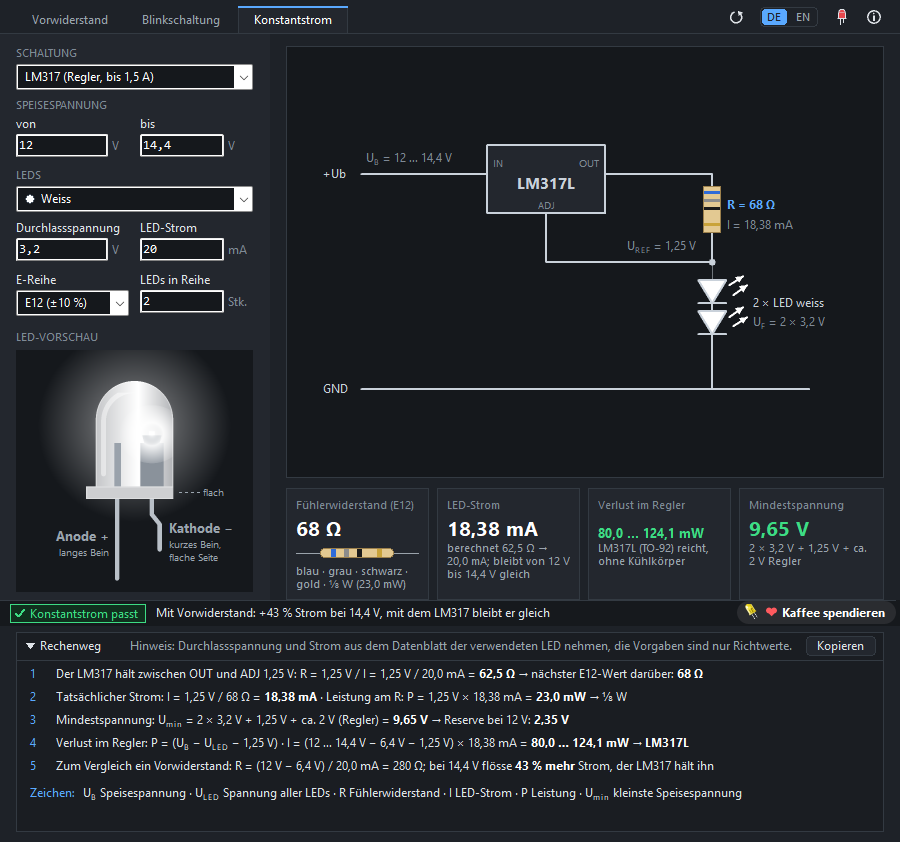
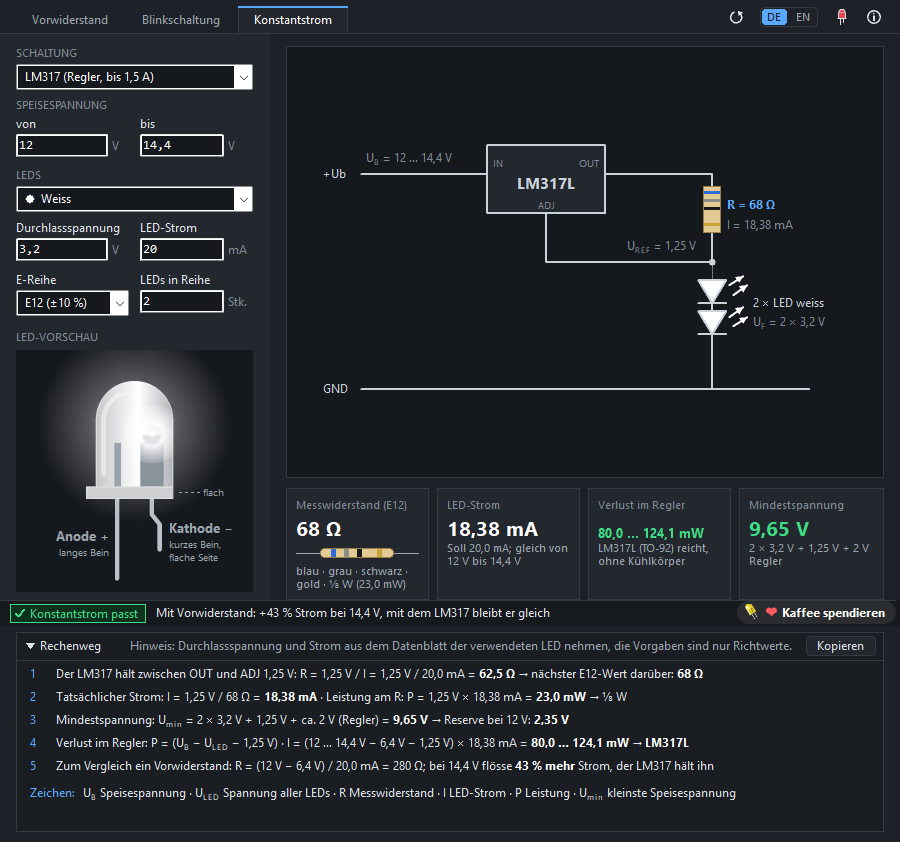
Projektseite auf 2.5.2 (#24)
Neue Screenshots und Link-Vorschaubilder aus 2.5.2, Texte, README und LIESMICH auf 2.5.2.

diff --git a/site/de/index.html b/site/de/index.html
@@ -44,7 +44,7 @@
   "description": "Berechnet den Vorwiderstand für eine oder mehrere LEDs in Reihe: nächsthöherer Normwert aus E12, E24 oder E96, Farbringe, tatsächlicher Strom, Leistung und empfohlene Bauform, mit Rechenweg Schritt für Schritt. Rechnet auch LED-Blinkschaltungen mit NE555 oder Multivibrator mit zwei Transistoren sowie Konstantstromquellen mit LM317 oder zwei Transistoren.",
   "url": "https://elospeed.github.io/LedPreResistor/de/",
   "downloadUrl": "https://github.com/Elospeed/LedPreResistor/releases/latest",
-  "softwareVersion": "2.5",
+  "softwareVersion": "2.5.2",
   "inLanguage": "de",
   "license": "https://opensource.org/licenses/MIT",
   "isAccessibleForFree": true,
@@ -80,8 +80,8 @@
     <h1>Der richtige Widerstand<br>für <span class="grad">jede LED</span></h1>
     <p class="lead">Speisespannung eingeben, LED-Farbe und Strom wählen. LedPreResistor sucht den nächsten Normwiderstand, zeigt seine Farbringe, den tatsächlichen Strom und die Leistung und sagt dir, welche Bauform du brauchst. Jeder Rechenschritt steht mit deinen eigenen Zahlen da. Ein kleines Programm für Windows und Linux, kostenlos und Open Source.</p>
     <div class="cta">
-      <a class="btn primary" href="https://github.com/Elospeed/LedPreResistor/releases/download/v2.5/LedPreResistor-2.5.zip">⬇ Download für Windows</a>
-      <a class="btn primary" href="https://github.com/Elospeed/LedPreResistor/releases/download/v2.5/LedPreResistor-2.5-linux-x86_64.tar.gz">⬇ Download für Linux</a>
+      <a class="btn primary" href="https://github.com/Elospeed/LedPreResistor/releases/download/v2.5.2/LedPreResistor-2.5.2.zip">⬇ Download für Windows</a>
+      <a class="btn primary" href="https://github.com/Elospeed/LedPreResistor/releases/download/v2.5.2/LedPreResistor-2.5.2-linux-x86_64.tar.gz">⬇ Download für Linux</a>
       <a class="btn" href="https://github.com/Elospeed/LedPreResistor">Quelltext auf GitHub</a>
     </div>
     <ul class="facts">
@@ -94,8 +94,8 @@
       <li>Konstantstrom: LM317 und zwei Transistoren</li>
     </ul>
     <figure class="shot hero-shot">
-      <div class="bar"><img src="../img/icon-32.png" alt=""><span>LedPreResistor · Elospeed 2.5</span><i class="min"></i><i class="max"></i><i class="cls"></i></div>
-      <img src="../img/ledpreresistor-main.png" width="900" height="842" alt="Hauptfenster von LedPreResistor: 12 V, drei weisse LEDs in Reihe, 20 mA, zwei Stränge parallel. Schaltplan mit 120-Ohm-Widerstand, drei LED-Symbolen und gestricheltem zweitem Strang mit mal 2, darunter der Rechenweg">
+      <div class="bar"><img src="../img/icon-32.png" alt=""><span>LedPreResistor · Elospeed 2.5.2</span><i class="min"></i><i class="max"></i><i class="cls"></i></div>
+      <img src="../img/ledpreresistor-main.png" width="900" height="842" alt="Hauptfenster von LedPreResistor: 12 V, drei weisse LEDs in Reihe, 20 mA, zwei Stränge parallel. Schaltplan mit beiden Strängen, je 120-Ohm-Widerstand und drei LEDs, 20 mA je Strang und 40 mA gesamt, darunter der Rechenweg">
     </figure>
   </div>
 </section>
@@ -109,7 +109,7 @@
       <div class="card"><h3><span class="dot" style="background:var(--yellow)"></span>Leistung und Bauform</h3><p>Tatsächlicher Strom, Leistung im Widerstand und in den LEDs. LedPreResistor empfiehlt ⅛, ¼, ½ oder 1 W und warnt ab 50 % Auslastung, mit geschätzter Erwärmung des Widerstands.</p></div>
       <div class="card"><h3><span class="dot" style="background:var(--green)"></span>Rechenweg Schritt für Schritt</h3><p>Ein aufklappbarer Bereich zeigt die fünf Schritte mit deinen Werten: Spannung am Widerstand, idealer Wert, Normwert, tatsächlicher Strom, Leistung und Erwärmung. Zum Lernen und zum Nachprüfen.</p></div>
       <div class="card"><h3><span class="dot" style="background:var(--blue)"></span>LED-Vorschau</h3><p>Eine realistische 5-mm-LED in der gewählten Farbe, Anode, Kathode und flache Seite beschriftet, damit sie richtig herum eingelötet wird. Im Reiter «Blinkschaltung» blinkt sie mit den berechneten Zeiten.</p></div>
-      <div class="card"><h3><span class="dot" style="background:var(--white)"></span>Schaltplan mit allen Werten</h3><p>Spannungsquelle, Widerstand und LED in einem übersichtlichen Schaltplan, mit Spannung, Strom und Widerstand an jedem Bauteil. Seit Version 2.5 zeichnet er mehrere LEDs in Reihe, und ein gestrichelter zweiter Zweig mit «× k» zeigt gleiche Stränge parallel, jeder mit eigenem Vorwiderstand.</p></div>
+      <div class="card"><h3><span class="dot" style="background:var(--white)"></span>Schaltplan mit allen Werten</h3><p>Spannungsquelle, Widerstand und LED in einem übersichtlichen Schaltplan, mit Spannung, Strom und Widerstand an jedem Bauteil. Mehrere LEDs in Reihe und Stränge parallel werden vollständig gezeichnet, jeder Strang mit eigenem Vorwiderstand, Strom je Strang und gesamt beschriftet. Gepolte Bauteile sind automatisch auf ihre Richtung geprüft.</p></div>
       <div class="card"><h3><span class="dot" style="background:var(--accent)"></span>LED-Info eingebaut</h3><p>Mit F1 öffnet sich «Die Leuchtdiode»: wie eine LED funktioniert, Farben und Durchlassspannungen, Polarität, Vorwiderstand, Konstantstrom und Praxistipps. Im Browser, auch offline.</p></div>
     </div>
   </div>
@@ -121,7 +121,7 @@
       <h2>Warnt, bevor es heiss wird</h2>
       <p class="sub" style="margin-bottom:0">Ein Widerstand an der Leistungsgrenze wird sehr heiss und altert schnell. LedPreResistor passt darauf auf.</p>
       <ul class="ticks">
-        <li><strong>Grün, gelb, rot</strong> in der Statuszeile: Auslastung eines normalen ¼-W-Widerstands und seine Erwärmung als «ca. +X K über Umgebung»</li>
+        <li><strong>Grün, gelb, rot</strong> in der Statuszeile: Auslastung der empfohlenen Bauform und ihre Erwärmung als «ca. +X K über Umgebung», dazu wie stark ein normaler ¼-W-Widerstand ausgelastet wäre</li>
         <li><strong>Ab 50 % Auslastung</strong> wird die nächstgrössere Bauform empfohlen, wie es erfahrene Bastler machen</li>
         <li><strong>Zu viel Leistung für einen Widerstand?</strong> Das Programm sagt es und schlägt eine Konstantstromquelle vor</li>
         <li><strong>Resultat kopieren</strong> mit dem Knopf «Kopieren» oder Strg+Umschalt+C: Resultat, Rechenweg und Zeichen-Erklärung als einfacher Text, für Notizen oder einen Forumsbeitrag</li>
@@ -130,8 +130,8 @@
       </ul>
     </div>
     <figure class="shot">
-      <div class="bar"><img src="../img/icon-32.png" alt=""><span>LedPreResistor · Elospeed 2.5</span><i class="min"></i><i class="max"></i><i class="cls"></i></div>
-      <img src="../img/ledpreresistor-warning.png" width="900" height="842" alt="LedPreResistor mit 9 V, roter LED, 25 mA: 330 Ohm, 148,5 mW, ein Viertelwatt-Widerstand wäre zu 59 Prozent ausgelastet, die Statuszeile warnt gelb und empfiehlt ein halbes Watt" loading="lazy">
+      <div class="bar"><img src="../img/icon-32.png" alt=""><span>LedPreResistor · Elospeed 2.5.2</span><i class="min"></i><i class="max"></i><i class="cls"></i></div>
+      <img src="../img/ledpreresistor-warning.png" width="900" height="842" alt="LedPreResistor mit 9 V, roter LED, 25 mA: 330 Ohm, 148,5 mW, empfohlen ein halbes Watt, zu 30 Prozent ausgelastet; ein Viertelwatt-Widerstand wäre zu 59 Prozent ausgelastet" loading="lazy">
     </figure>
   </div>
 </section>
@@ -151,8 +151,8 @@
       </ul>
     </div>
     <figure class="shot">
-      <div class="bar"><img src="../img/icon-32.png" alt=""><span>LedPreResistor · Elospeed 2.5</span><i class="min"></i><i class="max"></i><i class="cls"></i></div>
-      <img src="../img/ledpreresistor-blink.png" width="900" height="842" alt="LedPreResistor Reiter Blinkschaltung: NE555 astabil mit R1 1 Kiloohm, R2 68 Kiloohm und 10 Mikrofarad an 12 V, 1,05 Hz, Tastgrad 50,4 Prozent, Vorwiderstand 390 Ohm für eine weisse LED, Schaltplan und Rechenweg" loading="lazy">
+      <div class="bar"><img src="../img/icon-32.png" alt=""><span>LedPreResistor · Elospeed 2.5.2</span><i class="min"></i><i class="max"></i><i class="cls"></i></div>
+      <img src="../img/ledpreresistor-blink.png" width="900" height="842" alt="LedPreResistor Reiter Blinkschaltung: NE555 astabil mit R1 1 Kiloohm, R2 68 Kiloohm und Elko 10 Mikrofarad / 16 V an 12 V, 1,05 Hz, Tastgrad 50,4 Prozent, Vorwiderstand 390 Ohm für eine weisse LED, Schaltplan und Rechenweg" loading="lazy">
     </figure>
   </div>
 </section>
@@ -163,16 +163,16 @@
       <h2>Konstantstrom für die LEDs</h2>
       <p class="sub" style="margin-bottom:0">Seit Version 2.4: Der Reiter «Konstantstrom» hält den LED-Strom fest, auch wenn die Speisespannung schwankt, zum Beispiel 12 bis 14,4 V im Auto.</p>
       <ul class="ticks">
-        <li><strong>LM317 als Stromquelle:</strong> Fühlerwiderstand R = 1,25 V / I aus der E-Reihe, seine Leistung, die nötige Mindestspannung und der Verlust im Regler; Vorschlag LM317L oder LM317, bei Bedarf mit Hinweis auf einen Kühlkörper</li>
-        <li><strong>Zwei Transistoren:</strong> Fühlerwiderstand R_S = 0,6 V / I und Basiswiderstand R_B; T1 wird nach Strom und Leistung vorgeschlagen (BC547, BC337 oder BD139)</li>
+        <li><strong>LM317 als Stromquelle:</strong> Messwiderstand R = 1,25 V / I aus der E-Reihe, seine Leistung, die nötige Mindestspannung und der Verlust im Regler; Vorschlag LM317L oder LM317, bei Bedarf mit Hinweis auf einen Kühlkörper</li>
+        <li><strong>Zwei Transistoren:</strong> Messwiderstand R_S = 0,6 V / I und Basiswiderstand R_B; T1 wird nach Strom und Leistung vorgeschlagen (BC547, BC337 oder BD139)</li>
         <li><strong>Speisespannung als Bereich «von … bis»:</strong> zeigt, wie wenig sich der Strom ändert, im Vergleich zu einem einfachen Vorwiderstand</li>
         <li>Schaltplan mit allen Werten, Rechenweg, Zeichen-Erklärung und Warnungen wie in den anderen Reitern</li>
         <li>Die LED-Info erklärt Konstantstrom, Wärme und Kühlkörper in einem eigenen Kapitel</li>
       </ul>
     </div>
     <figure class="shot">
-      <div class="bar"><img src="../img/icon-32.png" alt=""><span>LedPreResistor · Elospeed 2.5</span><i class="min"></i><i class="max"></i><i class="cls"></i></div>
-      <img src="../img/ledpreresistor-ksq.png" width="900" height="842" alt="LedPreResistor Reiter Konstantstrom: LM317 als Stromquelle für zwei weisse LEDs mit 20 mA, Speisespannung 12 bis 14,4 V, Fühlerwiderstand 68 Ohm, 18,38 mA, Schaltplan und Rechenweg" loading="lazy">
+      <div class="bar"><img src="../img/icon-32.png" alt=""><span>LedPreResistor · Elospeed 2.5.2</span><i class="min"></i><i class="max"></i><i class="cls"></i></div>
+      <img src="../img/ledpreresistor-ksq.png" width="900" height="842" alt="LedPreResistor Reiter Konstantstrom: LM317 als Stromquelle für zwei weisse LEDs mit 20 mA, Speisespannung 12 bis 14,4 V, Messwiderstand 68 Ohm, 18,38 mA, Schaltplan und Rechenweg" loading="lazy">
     </figure>
   </div>
 </section>
@@ -248,7 +248,7 @@
     </details>
     <details>
       <summary>Gibt es eine Linux-Version?</summary>
-      <p>Ja, seit Version 2.2: eine eigene Linux-Version (x86_64, GTK2), ohne Wine. <code>LedPreResistor-2.5-linux-x86_64.tar.gz</code> entpacken und <code>./LedPreResistor</code> starten. <code>./install.sh</code> nimmt das Programm ohne root ins Startmenü auf. Es braucht GTK2, das auf den meisten Systemen schon da ist (sonst <code>sudo apt install libgtk2.0-0</code>, <code>sudo dnf install gtk2</code> oder <code>sudo pacman -S gtk2</code>). Die Einstellungen liegen in <code>~/.config/LedPreResistor/</code>.</p>
+      <p>Ja, seit Version 2.2: eine eigene Linux-Version (x86_64, GTK2), ohne Wine. <code>LedPreResistor-2.5.2-linux-x86_64.tar.gz</code> entpacken und <code>./LedPreResistor</code> starten. <code>./install.sh</code> nimmt das Programm ohne root ins Startmenü auf. Es braucht GTK2, das auf den meisten Systemen schon da ist (sonst <code>sudo apt install libgtk2.0-0</code>, <code>sudo dnf install gtk2</code> oder <code>sudo pacman -S gtk2</code>). Die Einstellungen liegen in <code>~/.config/LedPreResistor/</code>.</p>
     </details>
     <details>
       <summary>Woher kommt LedPreResistor?</summary>
@@ -266,8 +266,8 @@
     <h2>Bereit für das nächste LED-Projekt?</h2>
     <p class="sub" style="margin:0 auto 26px">Für Windows oder Linux herunterladen, entpacken und losrechnen.</p>
     <div class="cta">
-      <a class="btn primary" href="https://github.com/Elospeed/LedPreResistor/releases/download/v2.5/LedPreResistor-2.5.zip">⬇ Windows (ZIP)</a>
-      <a class="btn primary" href="https://github.com/Elospeed/LedPreResistor/releases/download/v2.5/LedPreResistor-2.5-linux-x86_64.tar.gz">⬇ Linux (tar.gz)</a>
+      <a class="btn primary" href="https://github.com/Elospeed/LedPreResistor/releases/download/v2.5.2/LedPreResistor-2.5.2.zip">⬇ Windows (ZIP)</a>
+      <a class="btn primary" href="https://github.com/Elospeed/LedPreResistor/releases/download/v2.5.2/LedPreResistor-2.5.2-linux-x86_64.tar.gz">⬇ Linux (tar.gz)</a>
       <a class="btn" href="https://github.com/Elospeed/LedPreResistor/blob/main/LIESMICH.md">Anleitung lesen</a>
     </div>
     <p class="support">LedPreResistor ist ein Hobbyprojekt eines Elektronik-Bastlers aus der Schweiz und bleibt kostenlos. Wenn es dir hilft, kannst du mir auf <a href="https://ko-fi.com/elospeed" data-goatcounter-click="ko-fi-support-de">Ko-fi einen Kaffee spendieren</a> ☕ oder einfach <a href="https://github.com/Elospeed/LedPreResistor" data-goatcounter-click="github-star-de">auf GitHub einen Stern geben</a>. Beides ganz freiwillig.</p>

diff --git a/site/index.html b/site/index.html
@@ -44,7 +44,7 @@
   "description": "Calculates the series resistor for one or more LEDs in series: next standard value from E12, E24 or E96, colour bands, real current, power and recommended resistor size, with a step-by-step explanation. Also calculates LED blink circuits with the NE555 or a two-transistor multivibrator, and constant current sources with the LM317 or two transistors.",
   "url": "https://elospeed.github.io/LedPreResistor/",
   "downloadUrl": "https://github.com/Elospeed/LedPreResistor/releases/latest",
-  "softwareVersion": "2.5",
+  "softwareVersion": "2.5.2",
   "license": "https://opensource.org/licenses/MIT",
   "isAccessibleForFree": true,
   "offers": { "@type": "Offer", "price": "0", "priceCurrency": "USD" },
@@ -79,8 +79,8 @@
     <h1>The right resistor<br>for <span class="grad">every LED</span></h1>
     <p class="lead">Enter the supply voltage, pick the LED colour and the current. LedPreResistor finds the next standard resistor, shows its colour bands, the real current and the power, and tells you which resistor size to use. Every step of the calculation is shown with your own numbers. One small program for Windows and Linux, free and open source.</p>
     <div class="cta">
-      <a class="btn primary" href="https://github.com/Elospeed/LedPreResistor/releases/download/v2.5/LedPreResistor-2.5.zip">⬇ Download for Windows</a>
-      <a class="btn primary" href="https://github.com/Elospeed/LedPreResistor/releases/download/v2.5/LedPreResistor-2.5-linux-x86_64.tar.gz">⬇ Download for Linux</a>
+      <a class="btn primary" href="https://github.com/Elospeed/LedPreResistor/releases/download/v2.5.2/LedPreResistor-2.5.2.zip">⬇ Download for Windows</a>
+      <a class="btn primary" href="https://github.com/Elospeed/LedPreResistor/releases/download/v2.5.2/LedPreResistor-2.5.2-linux-x86_64.tar.gz">⬇ Download for Linux</a>
       <a class="btn" href="https://github.com/Elospeed/LedPreResistor">View source on GitHub</a>
     </div>
     <ul class="facts">
@@ -93,8 +93,8 @@
       <li>Constant current: LM317 and two transistors</li>
     </ul>
     <figure class="shot hero-shot">
-      <div class="bar"><img src="img/icon-32.png" alt=""><span>LedPreResistor · Elospeed 2.5</span><i class="min"></i><i class="max"></i><i class="cls"></i></div>
-      <img src="img/ledpreresistor-main-en.png" width="900" height="842" alt="LedPreResistor main window: 12 V supply, three white LEDs in series, 20 mA, two strings in parallel. Schematic with 120 ohm resistor, three LED symbols and a dashed second string marked times 2, and the calculation step by step">
+      <div class="bar"><img src="img/icon-32.png" alt=""><span>LedPreResistor · Elospeed 2.5.2</span><i class="min"></i><i class="max"></i><i class="cls"></i></div>
+      <img src="img/ledpreresistor-main-en.png" width="900" height="842" alt="LedPreResistor main window: 12 V supply, three white LEDs in series, 20 mA, two strings in parallel. Schematic with both strings, each with a 120 ohm resistor and three LEDs, 20 mA per string and 40 mA in total, and the calculation steps below">
     </figure>
     <figcaption>English and German interface: it follows your Windows language, and the DE/EN switch at the top right changes it at any time.</figcaption>
   </div>
@@ -109,7 +109,7 @@
       <div class="card"><h3><span class="dot" style="background:var(--yellow)"></span>Power and the right size</h3><p>Real current, power in the resistor and in the LEDs. LedPreResistor recommends ⅛, ¼, ½ or 1 W and warns from 50 % load, with an estimated temperature rise of the resistor.</p></div>
       <div class="card"><h3><span class="dot" style="background:var(--green)"></span>The calculation, step by step</h3><p>A fold-out panel walks through the five steps with your values: voltage across the resistor, ideal value, standard value, real current, power and warming. Ideal for learning and for checking.</p></div>
       <div class="card"><h3><span class="dot" style="background:var(--blue)"></span>LED preview</h3><p>A realistic 5 mm LED in the selected colour, with anode, cathode and the flat side labelled, so you solder it the right way round. In the blink circuit tab it blinks with the calculated times.</p></div>
-      <div class="card"><h3><span class="dot" style="background:var(--white)"></span>Schematic with all values</h3><p>Supply, resistor and LED in a clear circuit diagram, with voltage, current and resistance at every part. Since version 2.5 it draws several LEDs in series, and a dashed second branch with “× k” shows equal strings in parallel, each with its own resistor.</p></div>
+      <div class="card"><h3><span class="dot" style="background:var(--white)"></span>Schematic with all values</h3><p>Supply, resistor and LED in a clear circuit diagram, with voltage, current and resistance at every part. LEDs in series and parallel strings are drawn in full, each string with its own resistor, with current per string and in total. Polarised parts are checked automatically for their direction.</p></div>
       <div class="card"><h3><span class="dot" style="background:var(--accent)"></span>LED info built in</h3><p>Press F1 for “The LED”: how an LED works, colours and forward voltages, polarity, series resistor, constant current and practical tips. Opens in your browser, also offline.</p></div>
     </div>
   </div>
@@ -121,7 +121,7 @@
       <h2>Warns before it gets hot</h2>
       <p class="sub" style="margin-bottom:0">A resistor that runs at its limit gets very hot and ages quickly. LedPreResistor keeps an eye on it.</p>
       <ul class="ticks">
-        <li><strong>Green, yellow, red</strong> in the status bar: load of a standard ¼ W resistor and how much it warms up, shown as “about +X K above ambient”</li>
+        <li><strong>Green, yellow, red</strong> in the status bar: load of the recommended rating and how much it warms up, shown as “about +X K above ambient”, plus how much a standard ¼ W resistor would be loaded</li>
         <li><strong>From 50 % load</strong> the next bigger size is recommended, as experienced builders do</li>
         <li><strong>Too much power for a resistor?</strong> It says so and suggests a constant current source</li>
         <li><strong>Copy the result</strong> with the Copy button or Ctrl+Shift+C: result, calculation steps and symbol legend as plain text, for your notes or a forum post</li>
@@ -130,8 +130,8 @@
       </ul>
     </div>
     <figure class="shot">
-      <div class="bar"><img src="img/icon-32.png" alt=""><span>LedPreResistor · Elospeed 2.5</span><i class="min"></i><i class="max"></i><i class="cls"></i></div>
-      <img src="img/ledpreresistor-warning-en.png" width="900" height="842" alt="LedPreResistor with 9 V, red LED, 25 mA: 330 ohm, 148.5 mW, a quarter watt resistor would be 59 percent loaded, the status bar shows a yellow warning and recommends half a watt" loading="lazy">
+      <div class="bar"><img src="img/icon-32.png" alt=""><span>LedPreResistor · Elospeed 2.5.2</span><i class="min"></i><i class="max"></i><i class="cls"></i></div>
+      <img src="img/ledpreresistor-warning-en.png" width="900" height="842" alt="LedPreResistor with 9 V, red LED, 25 mA: 330 ohm, 148.5 mW, half a watt recommended and loaded to 30 percent; a quarter watt resistor would be loaded to 59 percent" loading="lazy">
     </figure>
   </div>
 </section>
@@ -151,8 +151,8 @@
       </ul>
     </div>
     <figure class="shot">
-      <div class="bar"><img src="img/icon-32.png" alt=""><span>LedPreResistor · Elospeed 2.5</span><i class="min"></i><i class="max"></i><i class="cls"></i></div>
-      <img src="img/ledpreresistor-blink-en.png" width="900" height="842" alt="LedPreResistor blink circuit tab: NE555 astable with R1 1 kilohm, R2 68 kilohm and 10 microfarad at 12 V, 1.05 Hz, 50.4 percent duty cycle, series resistor 390 ohm for a white LED, schematic and calculation steps" loading="lazy">
+      <div class="bar"><img src="img/icon-32.png" alt=""><span>LedPreResistor · Elospeed 2.5.2</span><i class="min"></i><i class="max"></i><i class="cls"></i></div>
+      <img src="img/ledpreresistor-blink-en.png" width="900" height="842" alt="LedPreResistor blink circuit tab: NE555 astable with R1 1 kilohm, R2 68 kilohm and a 10 microfarad / 16 V capacitor at 12 V, 1.05 Hz, 50.4 percent duty cycle, series resistor 390 ohm for a white LED, schematic and calculation steps" loading="lazy">
     </figure>
   </div>
 </section>
@@ -171,7 +171,7 @@
       </ul>
     </div>
     <figure class="shot">
-      <div class="bar"><img src="img/icon-32.png" alt=""><span>LedPreResistor · Elospeed 2.5</span><i class="min"></i><i class="max"></i><i class="cls"></i></div>
+      <div class="bar"><img src="img/icon-32.png" alt=""><span>LedPreResistor · Elospeed 2.5.2</span><i class="min"></i><i class="max"></i><i class="cls"></i></div>
       <img src="img/ledpreresistor-ksq-en.png" width="900" height="842" alt="LedPreResistor constant current tab: LM317 as current source for two white LEDs at 20 mA, supply 12 to 14.4 V, sense resistor 68 ohm, 18.38 mA, schematic and calculation steps" loading="lazy">
     </figure>
   </div>
@@ -248,7 +248,7 @@
     </details>
     <details>
       <summary>Is there a Linux version?</summary>
-      <p>Yes, since version 2.2: a native Linux build (x86_64, GTK2), no Wine needed. Unpack <code>LedPreResistor-2.5-linux-x86_64.tar.gz</code> and run <code>./LedPreResistor</code>. <code>./install.sh</code> adds it to your application menu without root. It needs GTK2, which most desktops already have (otherwise <code>sudo apt install libgtk2.0-0</code>, <code>sudo dnf install gtk2</code> or <code>sudo pacman -S gtk2</code>). Settings are stored in <code>~/.config/LedPreResistor/</code>.</p>
+      <p>Yes, since version 2.2: a native Linux build (x86_64, GTK2), no Wine needed. Unpack <code>LedPreResistor-2.5.2-linux-x86_64.tar.gz</code> and run <code>./LedPreResistor</code>. <code>./install.sh</code> adds it to your application menu without root. It needs GTK2, which most desktops already have (otherwise <code>sudo apt install libgtk2.0-0</code>, <code>sudo dnf install gtk2</code> or <code>sudo pacman -S gtk2</code>). Settings are stored in <code>~/.config/LedPreResistor/</code>.</p>
     </details>
     <details>
       <summary>Where does LedPreResistor come from?</summary>
@@ -266,8 +266,8 @@
     <h2>Ready for your next LED project?</h2>
     <p class="sub" style="margin:0 auto 26px">Download it for Windows or Linux, unpack it and start calculating.</p>
     <div class="cta">
-      <a class="btn primary" href="https://github.com/Elospeed/LedPreResistor/releases/download/v2.5/LedPreResistor-2.5.zip">⬇ Windows (ZIP)</a>
-      <a class="btn primary" href="https://github.com/Elospeed/LedPreResistor/releases/download/v2.5/LedPreResistor-2.5-linux-x86_64.tar.gz">⬇ Linux (tar.gz)</a>
+      <a class="btn primary" href="https://github.com/Elospeed/LedPreResistor/releases/download/v2.5.2/LedPreResistor-2.5.2.zip">⬇ Windows (ZIP)</a>
+      <a class="btn primary" href="https://github.com/Elospeed/LedPreResistor/releases/download/v2.5.2/LedPreResistor-2.5.2-linux-x86_64.tar.gz">⬇ Linux (tar.gz)</a>
       <a class="btn" href="https://github.com/Elospeed/LedPreResistor#readme">Read the guide</a>
     </div>
     <p class="support">LedPreResistor is a hobby project by an electronics hobbyist from Switzerland and free for good. If it helps you, you can <a href="https://ko-fi.com/elospeed" data-goatcounter-click="ko-fi-support-en">buy me a coffee on Ko-fi</a> ☕ or simply <a href="https://github.com/Elospeed/LedPreResistor" data-goatcounter-click="github-star-en">give it a star on GitHub</a>. Both are entirely optional.</p>

diff --git a/LIESMICH.md b/LIESMICH.md
@@ -1,4 +1,4 @@
-# Elospeed LedPreResistor 2.5
+# Elospeed LedPreResistor 2.5.2
 
 **von Elospeed**
 
@@ -6,7 +6,7 @@
 
 **Webseite:** [elospeed.github.io/LedPreResistor/de](https://elospeed.github.io/LedPreResistor/de/) · **Download:** [neuestes Release](https://github.com/Elospeed/LedPreResistor/releases/latest)
 
-![Hauptfenster von LedPreResistor: 12 V, drei weisse LEDs in Reihe, zwei Stränge parallel, 20 mA → 120 Ω](site/img/ledpreresistor-main.png)
+![Hauptfenster von LedPreResistor: 12 V, drei weisse LEDs in Reihe, zwei Stränge parallel, jeder mit eigenem 120-Ω-Widerstand](site/img/ledpreresistor-main.png)
 
 LedPreResistor berechnet den Vorwiderstand für eine oder mehrere LEDs. Es ist die Neuauflage der Freeware *LED Pre-Resistor* (Delphi 7, 2004), komplett neu gebaut in Lazarus: eine einzelne 64-Bit-Windows-EXE, ohne Installation, ohne Zusatzpakete. Seit 2.2 gibt es auch eine eigene **Linux**-Version.
 
@@ -15,14 +15,14 @@ LedPreResistor berechnet den Vorwiderstand für eine oder mehrere LEDs. Es ist d
 - **Live-Berechnung** beim Tippen: Betriebsspannung, Durchlassspannung, LED-Strom und Anzahl LEDs in Reihe.
 - **Nächster Normwert** aus E12, E24 oder E96 (immer der nächsthöhere, damit die LED nie mehr Strom bekommt als geplant).
 - **Tatsächlicher Strom und Leistung** im Widerstand, in den LEDs und gesamt, dazu die empfohlene Belastbarkeit (⅛ / ¼ / ½ / 1 W) mit Warnung ab 50 % Auslastung und geschätzter Erwärmung als «ca. +X K über Umgebung».
-- **Farbringe** des Widerstands (4 Ringe, bei E96 5 Ringe) und ein **Schaltplan** mit allen Werten an den Bauteilen; LEDs in Reihe sind gezeichnet (ab 4 LEDs mit Punkten), Stränge parallel als gestrichelter zweiter Zweig mit «× k».
+- **Farbringe** des Widerstands (4 Ringe, bei E96 5 Ringe) und ein **Schaltplan** mit allen Werten an den Bauteilen; LEDs in Reihe sind gezeichnet (ab 4 LEDs mit Punkten), Stränge parallel vollständig, jeder mit eigenem Widerstand.
 - Aufklappbarer Bereich **«Rechenweg»**: zeigt die Rechnung Schritt für Schritt mit den eigenen Zahlen.
 - Vorgaben für rote, gelbe, grüne, blaue, weisse und Infrarot-LEDs oder eigene Durchlassspannung aus dem Datenblatt.
 - **LED-Vorschau**: eine 5-mm-LED in der gewählten Farbe, Anode, Kathode und flache Seite beschriftet.
 - Reiter **«Blinkschaltung»** (seit 2.3): NE555 astabil (wahlweise mit Diode über R2) oder Multivibrator mit zwei Transistoren (BC547). Rechnet aus den Bauteilen Frequenz, Ein-/Auszeit und den Vorwiderstand der LED oder umgekehrt aus Wunschfrequenz und Tastgrad (NE555) bzw. den Leuchtzeiten beider LEDs (Multivibrator, Standard 1:1) die Widerstände. Die Vorschau blinkt im berechneten Takt, dazu Schaltplan, Rechenweg und Prüfungen (Spannungsbereich, Ausgangsstrom, Sättigung der Transistoren, Sperrspannung an der Basis).
 - Reiter **«Konstantstrom»** (seit 2.4): LM317 als Stromquelle oder Konstantstromquelle mit zwei Transistoren. Die Speisespannung lässt sich als Bereich eingeben (z. B. 12 … 14,4 V im Auto); das Programm zeigt, wie wenig sich der LED-Strom ändert, verglichen mit einem einfachen Vorwiderstand. Rechnet Fühlerwiderstand, Mindestspannung, Verlustleistung mit Kühlkörper-Hinweis und schlägt das Bauteil vor (LM317L/LM317, T1 als BC547, BC337 oder BD139).
 - **Stränge parallel** (seit 2.4): mehrere gleiche LED-Stränge mit je eigenem Vorwiderstand, mit Gesamtstrom und Gesamtleistung.
-- **Sinnvolle Grenzen** (seit 2.5): Speisespannung bis 60 V (Kleinspannung), bis 30 LEDs in Reihe und 20 Stränge parallel.
+- **Sinnvolle Grenzen** (seit 2.5): Speisespannung bis 60 V (Kleinspannung), bis 30 LEDs in Reihe und 20 Stränge parallel. Seit 2.5.2 beachten die Schaltungen auch die Grenzen der Bauteile (NE555 bis 16 V, BC547 bis 45 V und 100 mA, LM317 bis 40 V zwischen IN und OUT) und melden zu grosse Werte klar, statt ein Resultat zu zeigen.
 - **LED-Info** «Die Leuchtdiode» eingebaut (F1, öffnet sich im Browser, auch offline).
 - Knopf **«Kopieren»** in der Kopfzeile des Rechenwegs (oder Strg+Umschalt+C): kopiert Resultat, kompletten Rechenweg und Zeichen-Erklärung als einfachen Text. Komma und Punkt als Dezimalzeichen.
 - **Deutsch und Englisch**: Auf einem deutschen Windows startet das Programm deutsch, sonst englisch; der Umschalter DE/EN oben rechts wechselt jederzeit (gespeichert in `LedPreResistor.ini` neben der EXE, unter Linux in `~/.config/LedPreResistor/`).

diff --git a/README.md b/README.md
@@ -1,4 +1,4 @@
-# Elospeed LedPreResistor 2.5
+# Elospeed LedPreResistor 2.5.2
 
 **by Elospeed**
 
@@ -6,7 +6,7 @@
 
 **Website:** [elospeed.github.io/LedPreResistor](https://elospeed.github.io/LedPreResistor/) · **Download:** [latest release](https://github.com/Elospeed/LedPreResistor/releases/latest)
 
-![LedPreResistor main window: 12 V, three white LEDs in series, two strings in parallel, 20 mA → 120 Ω](site/img/ledpreresistor-main-en.png)
+![LedPreResistor main window: 12 V, three white LEDs in series, two strings in parallel, each with its own 120 Ω resistor](site/img/ledpreresistor-main-en.png)
 
 LedPreResistor calculates the series resistor for one or more LEDs. It is the new edition of the freeware tool *LED Pre-Resistor* (Delphi 7, 2004), rebuilt from scratch in Lazarus: a single 64-bit Windows exe, no installer, no extra packages. Since 2.2 there is also a native **Linux** version.
 
@@ -15,14 +15,14 @@ LedPreResistor calculates the series resistor for one or more LEDs. It is the ne
 - **Live calculation** while you type: supply voltage, forward voltage, LED current and number of LEDs in series.
 - **Nearest standard value** from the E12, E24 or E96 series (always the next higher value, so the LED never gets more current than planned).
 - **Real current and power** in the resistor, in the LEDs and in total, plus a recommended resistor rating (⅛ / ¼ / ½ / 1 W) with a warning above 50 % load and an estimated temperature rise, shown as "about +X K above ambient".
-- **Colour bands** of the resistor (4 bands, 5 bands for E96) and a **schematic** with all values at the components; LEDs in series are drawn (from 4 LEDs with dots), parallel strings as a dashed second branch with "× k".
+- **Colour bands** of the resistor (4 bands, 5 bands for E96) and a **schematic** with all values at the components; LEDs in series are drawn (from 4 LEDs with dots), parallel strings in full, each with its own resistor.
 - **"How it is calculated"** panel that walks through the calculation step by step with your own numbers.
 - Presets for red, yellow, green, blue, white and infrared LEDs, or your own forward voltage from the datasheet.
 - **LED preview**: a 5 mm LED in the chosen colour with anode, cathode and flat side labelled.
 - **Blink circuit** tab (since 2.3): NE555 astable (optionally with a diode across R2) or a two-transistor multivibrator (BC547). Calculates frequency, on/off times and the LED series resistor from the parts, or the timing resistors from a desired frequency and duty cycle (NE555) or the on times of both LEDs (multivibrator, 1:1 by default). The preview blinks at the calculated rate, with schematic, "How it is calculated" and checks (supply range, output current, transistor saturation, base reverse voltage).
 - **Constant current** tab (since 2.4): LM317 as a current source or a two-transistor current source. Enter the supply as a range (e.g. 12 … 14.4 V in a car) and see how little the LED current changes compared with a plain series resistor. Calculates the sense resistor, minimum supply voltage, power loss with heatsink hint, and suggests the part (LM317L/LM317, T1 as BC547, BC337 or BD139).
 - **Parallel strings** (since 2.4): several identical LED strings, each with its own resistor, with total current and power.
-- **Sensible limits** (since 2.5): supply up to 60 V (extra-low voltage), up to 30 LEDs in series and 20 parallel strings.
+- **Sensible limits** (since 2.5): supply up to 60 V (extra-low voltage), up to 30 LEDs in series and 20 parallel strings. Since 2.5.2 the circuits also respect component limits (NE555 up to 16 V, BC547 up to 45 V and 100 mA, LM317 up to 40 V between IN and OUT) and give a clear message instead of a result.
 - **LED info** "The LED" built in (F1, opens in your browser, also offline).
 - **Copy** button in the "Calculation steps" header (or Ctrl+Shift+C): copies the result, all calculation steps and the symbol legend as plain text. Comma and dot both work as decimal separator.
 - **English and German**: starts in German on a German Windows and in English everywhere else; the DE/EN switch at the top right changes it at any time (saved in `LedPreResistor.ini` next to the exe, on Linux in `~/.config/LedPreResistor/`).
